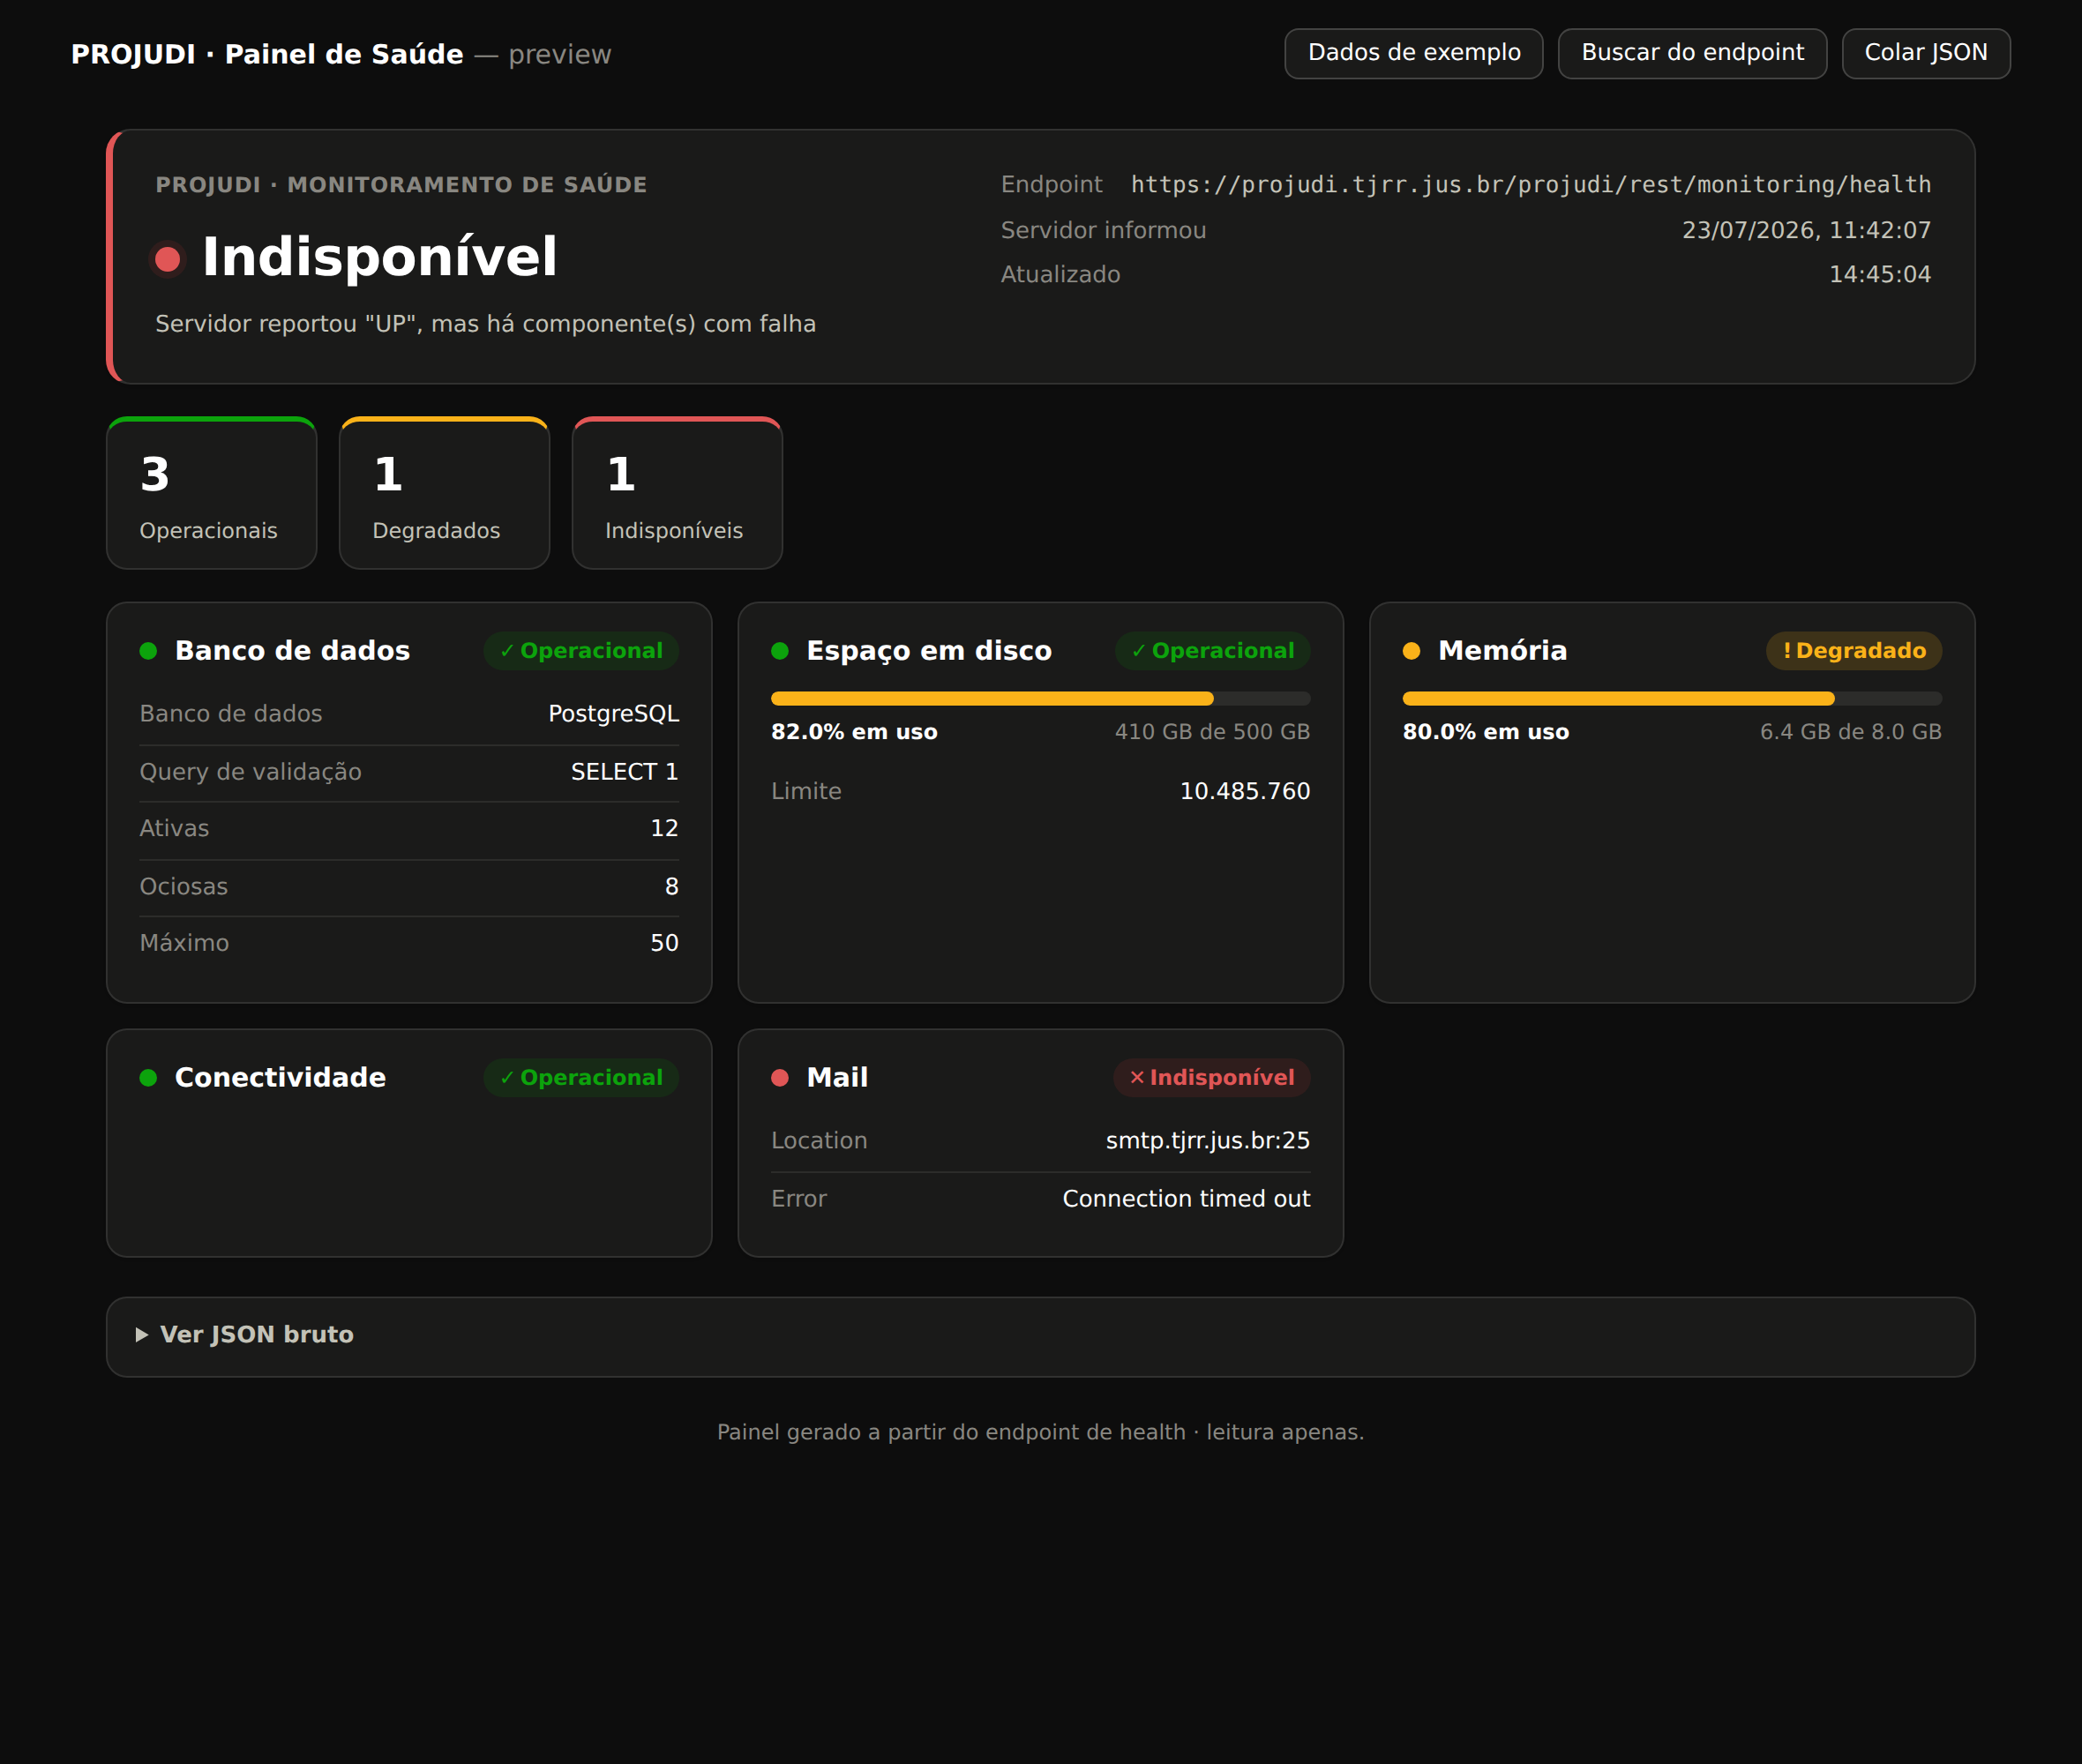
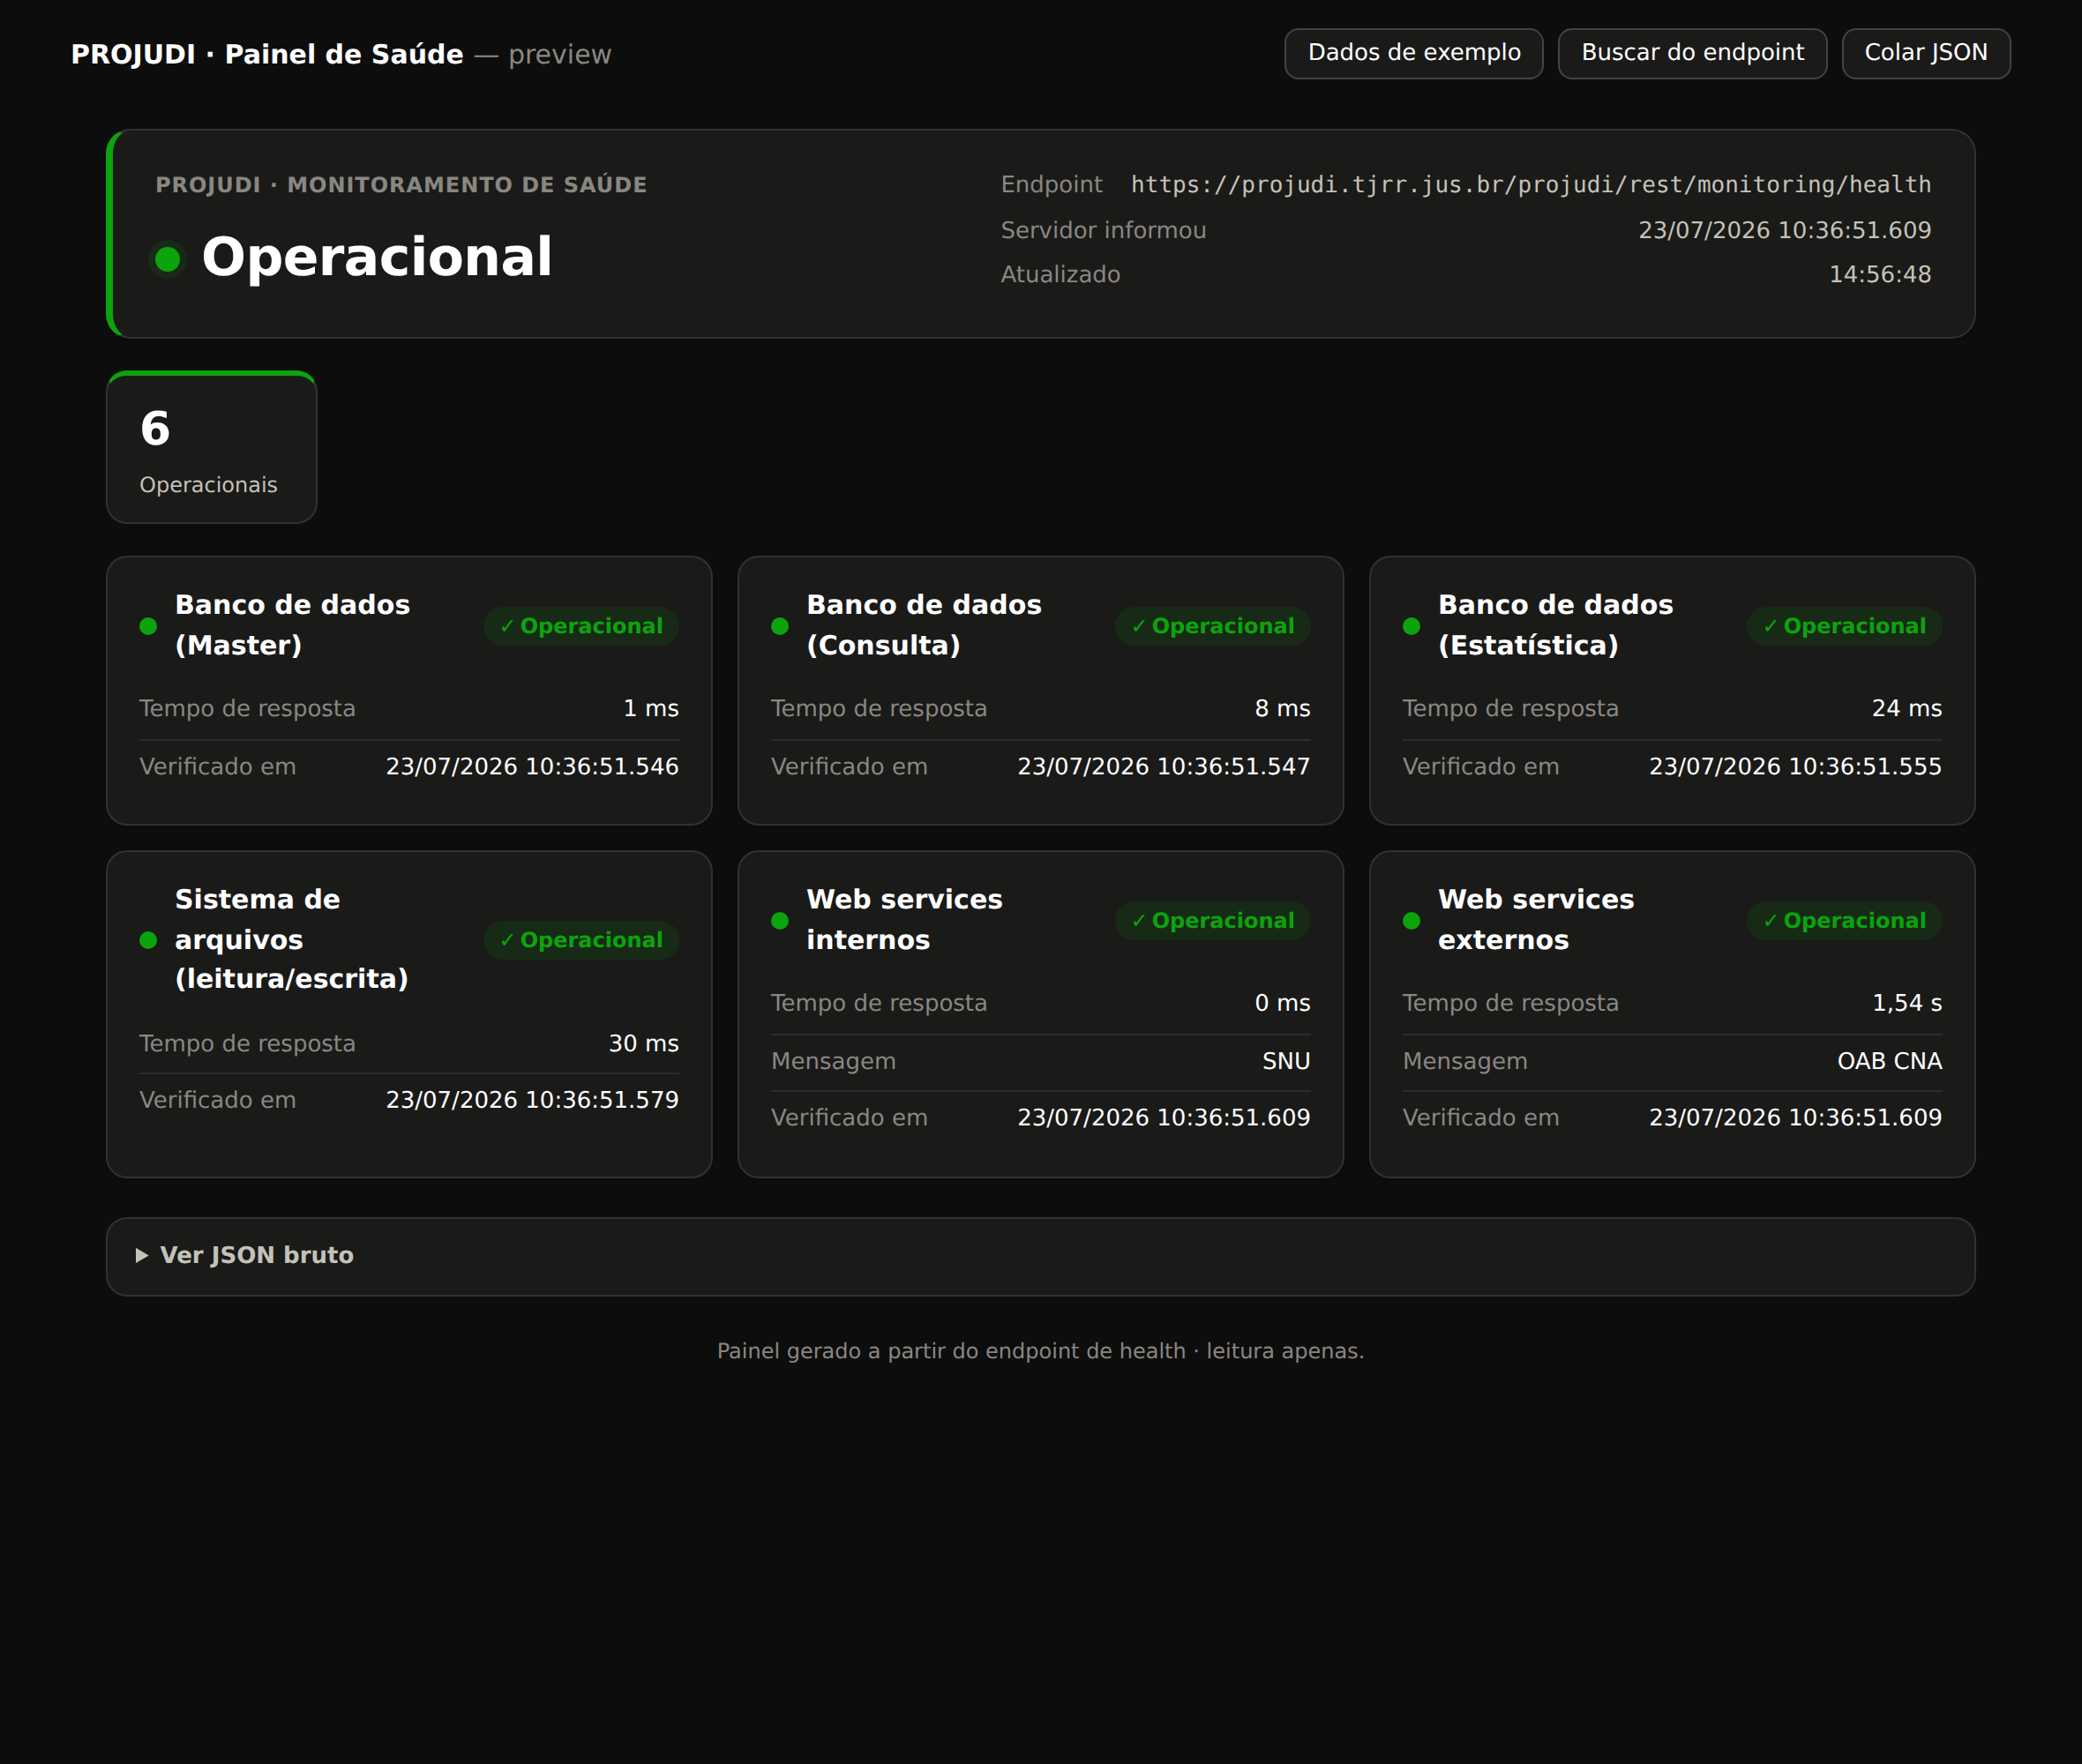
Adapta o painel ao formato real do health do PROJUDI (healthMonitorResult)
O endpoint retorna um array de verificações, não o formato Spring Actuator.
Ajustes:

- extrator reconhece healthMonitorResult (e checks/results/tests) como lista de
  testes, mapeando cada item para um card { status, details }
- rótulos em português para checkMasterDB, checkConsultaDB, checkEstatisticaDB,
  checkFileSystemRW, checkInternalWebServices, checkExternalWebServices
- durationMillis (string) vira número e é exibido como tempo de resposta
  (30 ms, 1,54 s); timestamp vira "verificado em"; mensagem vazia é omitida
- status SUCCESS/FAILURE reconhecidos; carimbo do servidor usa o mais recente
- preview.html e README atualizados com o payload real

Claude-Session: https://claude.ai/code/session_01B1C6fwaHJFTu4FFLnZ1Xcq

diff --git a/projudi-health/health-dashboard.js b/projudi-health/health-dashboard.js
@@ -23,9 +23,9 @@
 
   // Mapeia os muitos rótulos possíveis de status para 4 estados canônicos.
   // Estados: 'good' | 'warning' | 'critical' | 'unknown'
-  const STATUS_BOM = new Set(['up', 'ok', 'healthy', 'alive', 'online', 'running', 'ready', 'pass', 'passing', 'true', 'green', 'success', '200']);
-  const STATUS_ALERTA = new Set(['warn', 'warning', 'degraded', 'out_of_service', 'partial', 'yellow', 'slow', 'maintenance']);
-  const STATUS_CRITICO = new Set(['down', 'error', 'fail', 'failed', 'failing', 'dead', 'offline', 'unhealthy', 'false', 'red', 'critical', 'unavailable', '500', '503']);
+  const STATUS_BOM = new Set(['up', 'ok', 'healthy', 'alive', 'online', 'running', 'ready', 'pass', 'passing', 'true', 'green', 'success', 'sucesso', 'ativo', '200']);
+  const STATUS_ALERTA = new Set(['warn', 'warning', 'degraded', 'out_of_service', 'partial', 'yellow', 'slow', 'lento', 'maintenance', 'manutencao', 'manutenção', 'alerta']);
+  const STATUS_CRITICO = new Set(['down', 'error', 'erro', 'fail', 'failure', 'failed', 'failing', 'falha', 'dead', 'offline', 'unhealthy', 'timeout', 'false', 'red', 'critical', 'unavailable', 'indisponivel', 'indisponível', '500', '503']);
 
   function normalizarStatus(valor) {
     if (valor === true) return 'good';
@@ -84,6 +84,7 @@
   function formatarDuracao(ms) {
     if (typeof ms !== 'number' || !isFinite(ms)) return String(ms);
     if (ms < 1000) return `${Math.round(ms)} ms`;
+    if (ms < 60000) return `${(ms / 1000).toLocaleString('pt-BR', { maximumFractionDigits: 2 })} s`;
     let s = Math.floor(ms / 1000);
     const d = Math.floor(s / 86400); s -= d * 86400;
     const h = Math.floor(s / 3600);  s -= h * 3600;
@@ -136,8 +137,16 @@
       memory: 'Memória', heap: 'Memória (heap)', cpu: 'CPU', redis: 'Redis',
       total: 'Total', free: 'Livre', used: 'Usado', threshold: 'Limite',
       validationquery: 'Query de validação', version: 'Versão', uptime: 'Tempo no ar',
-      timestamp: 'Momento', hostname: 'Servidor', host: 'Servidor', port: 'Porta',
+      timestamp: 'Verificado em', hostname: 'Servidor', host: 'Servidor', port: 'Porta',
       active: 'Ativas', idle: 'Ociosas', max: 'Máximo', responsetime: 'Tempo de resposta',
+      durationmillis: 'Tempo de resposta', message: 'Mensagem', test: 'Teste',
+      // checagens específicas do endpoint de health do PROJUDI
+      checkmasterdb: 'Banco de dados (Master)',
+      checkconsultadb: 'Banco de dados (Consulta)',
+      checkestatisticadb: 'Banco de dados (Estatística)',
+      checkfilesystemrw: 'Sistema de arquivos (leitura/escrita)',
+      checkinternalwebservices: 'Web services internos',
+      checkexternalwebservices: 'Web services externos',
     };
     const k = String(chave).toLowerCase().replace(/[_\s-]/g, '');
     return dic[k] || String(chave).replace(/([a-z])([A-Z])/g, '$1 $2').replace(/[_-]+/g, ' ').replace(/^./, (c) => c.toUpperCase());
@@ -277,13 +286,48 @@
   // Render principal
   // ---------------------------------------------------------------------------
 
+  // Normaliza os vários formatos possíveis de payload em um mapa de componentes
+  // { nome: { status, details } } e sugere um carimbo de data/hora do servidor.
+  function extrairComponentes(dados) {
+    if (!dados || typeof dados !== 'object') return { componentes: null, carimbo: null };
+
+    // Formato do PROJUDI: array de testes (healthMonitorResult) ou similar.
+    const arr = dados.healthMonitorResult || dados.checks || dados.results || dados.tests
+      || (Array.isArray(dados) ? dados : null);
+    if (Array.isArray(arr)) {
+      const componentes = {};
+      let carimbo = null;
+      arr.forEach((item, i) => {
+        if (!item || typeof item !== 'object') return;
+        let nome = item.test || item.name || item.nome || item.id || `Verificação ${i + 1}`;
+        if (componentes[nome]) nome = `${nome} (${i + 1})`;
+        const details = {};
+        for (const [k, v] of Object.entries(item)) {
+          const kl = k.toLowerCase();
+          if (kl === 'status' || kl === 'test' || kl === 'name' || kl === 'nome') continue;
+          if (kl === 'message' && (v == null || String(v).trim() === '')) continue; // mensagem vazia = ruído
+          if (kl === 'durationmillis') { details[k] = Number(v); continue; } // string → número (ms)
+          details[k] = v;
+        }
+        if (item.timestamp && (!carimbo || String(item.timestamp) > String(carimbo))) carimbo = item.timestamp;
+        componentes[nome] = { status: item.status, details };
+      });
+      return { componentes, carimbo };
+    }
+
+    // Formato Spring Actuator ou objeto de componentes.
+    const obj = dados.components || dados.componentes || (dados.checks && !Array.isArray(dados.checks) ? dados.checks : null);
+    return { componentes: obj || null, carimbo: null };
+  }
+
   function render(container, dados, meta) {
     meta = meta || {};
     container.textContent = '';
     container.classList.add('hd-root');
 
     // Descobre componentes e status geral
-    const componentes = (dados && (dados.components || dados.componentes || dados.checks || dados.details)) || null;
+    const extraido = extrairComponentes(dados);
+    const componentes = extraido.componentes;
     const estadoReportado = normalizarStatus(statusBruto(dados));
     // Estado geral = o pior entre o reportado no topo e o pior componente.
     // Um painel de monitoramento não deve exibir "Operacional" se algo caiu.
@@ -326,7 +370,7 @@
       linha.appendChild(el('span', 'hd-hero-meta-v hd-mono', meta.endpoint));
       heroMeta.appendChild(linha);
     }
-    const carimbo = dados && (dados.timestamp || dados.time || dados.datetime || dados.data);
+    const carimbo = (dados && (dados.timestamp || dados.time || dados.datetime || dados.data)) || extraido.carimbo;
     if (carimbo) {
       const linha = el('div', 'hd-hero-meta-row');
       linha.appendChild(el('span', 'hd-hero-meta-k', 'Servidor informou'));

diff --git a/projudi-health/mozilla/health-dashboard.js b/projudi-health/mozilla/health-dashboard.js
@@ -23,9 +23,9 @@
 
   // Mapeia os muitos rótulos possíveis de status para 4 estados canônicos.
   // Estados: 'good' | 'warning' | 'critical' | 'unknown'
-  const STATUS_BOM = new Set(['up', 'ok', 'healthy', 'alive', 'online', 'running', 'ready', 'pass', 'passing', 'true', 'green', 'success', '200']);
-  const STATUS_ALERTA = new Set(['warn', 'warning', 'degraded', 'out_of_service', 'partial', 'yellow', 'slow', 'maintenance']);
-  const STATUS_CRITICO = new Set(['down', 'error', 'fail', 'failed', 'failing', 'dead', 'offline', 'unhealthy', 'false', 'red', 'critical', 'unavailable', '500', '503']);
+  const STATUS_BOM = new Set(['up', 'ok', 'healthy', 'alive', 'online', 'running', 'ready', 'pass', 'passing', 'true', 'green', 'success', 'sucesso', 'ativo', '200']);
+  const STATUS_ALERTA = new Set(['warn', 'warning', 'degraded', 'out_of_service', 'partial', 'yellow', 'slow', 'lento', 'maintenance', 'manutencao', 'manutenção', 'alerta']);
+  const STATUS_CRITICO = new Set(['down', 'error', 'erro', 'fail', 'failure', 'failed', 'failing', 'falha', 'dead', 'offline', 'unhealthy', 'timeout', 'false', 'red', 'critical', 'unavailable', 'indisponivel', 'indisponível', '500', '503']);
 
   function normalizarStatus(valor) {
     if (valor === true) return 'good';
@@ -84,6 +84,7 @@
   function formatarDuracao(ms) {
     if (typeof ms !== 'number' || !isFinite(ms)) return String(ms);
     if (ms < 1000) return `${Math.round(ms)} ms`;
+    if (ms < 60000) return `${(ms / 1000).toLocaleString('pt-BR', { maximumFractionDigits: 2 })} s`;
     let s = Math.floor(ms / 1000);
     const d = Math.floor(s / 86400); s -= d * 86400;
     const h = Math.floor(s / 3600);  s -= h * 3600;
@@ -136,8 +137,16 @@
       memory: 'Memória', heap: 'Memória (heap)', cpu: 'CPU', redis: 'Redis',
       total: 'Total', free: 'Livre', used: 'Usado', threshold: 'Limite',
       validationquery: 'Query de validação', version: 'Versão', uptime: 'Tempo no ar',
-      timestamp: 'Momento', hostname: 'Servidor', host: 'Servidor', port: 'Porta',
+      timestamp: 'Verificado em', hostname: 'Servidor', host: 'Servidor', port: 'Porta',
       active: 'Ativas', idle: 'Ociosas', max: 'Máximo', responsetime: 'Tempo de resposta',
+      durationmillis: 'Tempo de resposta', message: 'Mensagem', test: 'Teste',
+      // checagens específicas do endpoint de health do PROJUDI
+      checkmasterdb: 'Banco de dados (Master)',
+      checkconsultadb: 'Banco de dados (Consulta)',
+      checkestatisticadb: 'Banco de dados (Estatística)',
+      checkfilesystemrw: 'Sistema de arquivos (leitura/escrita)',
+      checkinternalwebservices: 'Web services internos',
+      checkexternalwebservices: 'Web services externos',
     };
     const k = String(chave).toLowerCase().replace(/[_\s-]/g, '');
     return dic[k] || String(chave).replace(/([a-z])([A-Z])/g, '$1 $2').replace(/[_-]+/g, ' ').replace(/^./, (c) => c.toUpperCase());
@@ -277,13 +286,48 @@
   // Render principal
   // ---------------------------------------------------------------------------
 
+  // Normaliza os vários formatos possíveis de payload em um mapa de componentes
+  // { nome: { status, details } } e sugere um carimbo de data/hora do servidor.
+  function extrairComponentes(dados) {
+    if (!dados || typeof dados !== 'object') return { componentes: null, carimbo: null };
+
+    // Formato do PROJUDI: array de testes (healthMonitorResult) ou similar.
+    const arr = dados.healthMonitorResult || dados.checks || dados.results || dados.tests
+      || (Array.isArray(dados) ? dados : null);
+    if (Array.isArray(arr)) {
+      const componentes = {};
+      let carimbo = null;
+      arr.forEach((item, i) => {
+        if (!item || typeof item !== 'object') return;
+        let nome = item.test || item.name || item.nome || item.id || `Verificação ${i + 1}`;
+        if (componentes[nome]) nome = `${nome} (${i + 1})`;
+        const details = {};
+        for (const [k, v] of Object.entries(item)) {
+          const kl = k.toLowerCase();
+          if (kl === 'status' || kl === 'test' || kl === 'name' || kl === 'nome') continue;
+          if (kl === 'message' && (v == null || String(v).trim() === '')) continue; // mensagem vazia = ruído
+          if (kl === 'durationmillis') { details[k] = Number(v); continue; } // string → número (ms)
+          details[k] = v;
+        }
+        if (item.timestamp && (!carimbo || String(item.timestamp) > String(carimbo))) carimbo = item.timestamp;
+        componentes[nome] = { status: item.status, details };
+      });
+      return { componentes, carimbo };
+    }
+
+    // Formato Spring Actuator ou objeto de componentes.
+    const obj = dados.components || dados.componentes || (dados.checks && !Array.isArray(dados.checks) ? dados.checks : null);
+    return { componentes: obj || null, carimbo: null };
+  }
+
   function render(container, dados, meta) {
     meta = meta || {};
     container.textContent = '';
     container.classList.add('hd-root');
 
     // Descobre componentes e status geral
-    const componentes = (dados && (dados.components || dados.componentes || dados.checks || dados.details)) || null;
+    const extraido = extrairComponentes(dados);
+    const componentes = extraido.componentes;
     const estadoReportado = normalizarStatus(statusBruto(dados));
     // Estado geral = o pior entre o reportado no topo e o pior componente.
     // Um painel de monitoramento não deve exibir "Operacional" se algo caiu.
@@ -326,7 +370,7 @@
       linha.appendChild(el('span', 'hd-hero-meta-v hd-mono', meta.endpoint));
       heroMeta.appendChild(linha);
     }
-    const carimbo = dados && (dados.timestamp || dados.time || dados.datetime || dados.data);
+    const carimbo = (dados && (dados.timestamp || dados.time || dados.datetime || dados.data)) || extraido.carimbo;
     if (carimbo) {
       const linha = el('div', 'hd-hero-meta-row');
       linha.appendChild(el('span', 'hd-hero-meta-k', 'Servidor informou'));

diff --git a/projudi-health/preview.html b/projudi-health/preview.html
@@ -45,17 +45,16 @@
     const ENDPOINT = 'https://projudi.tjrr.jus.br/projudi/rest/monitoring/health';
     const alvo = document.getElementById('dashboard');
 
-    // Exemplo realista no formato Spring Actuator (ajuste-se ao real quando disponível).
+    // Formato real do endpoint de health do PROJUDI (array de verificações).
     const EXEMPLO = {
-      status: 'UP',
-      timestamp: '2026-07-23T11:42:07',
-      components: {
-        db: { status: 'UP', details: { database: 'PostgreSQL', validationQuery: 'SELECT 1', active: 12, idle: 8, max: 50 } },
-        diskSpace: { status: 'UP', details: { total: 536870912000, free: 96636764160, threshold: 10485760 } },
-        memory: { status: 'WARNING', details: { used: 6871947673, max: 8589934592 } },
-        ping: { status: 'UP' },
-        mail: { status: 'DOWN', details: { location: 'smtp.tjrr.jus.br:25', error: 'Connection timed out' } }
-      }
+      healthMonitorResult: [
+        { durationMillis: '1', message: '', status: 'SUCCESS', test: 'checkMasterDB', timestamp: '23/07/2026 10:36:51.546' },
+        { durationMillis: '8', message: '', status: 'SUCCESS', test: 'checkConsultaDB', timestamp: '23/07/2026 10:36:51.547' },
+        { durationMillis: '24', message: '', status: 'SUCCESS', test: 'checkEstatisticaDB', timestamp: '23/07/2026 10:36:51.555' },
+        { durationMillis: '30', message: '', status: 'SUCCESS', test: 'checkFileSystemRW', timestamp: '23/07/2026 10:36:51.579' },
+        { durationMillis: '0', message: 'SNU', status: 'SUCCESS', test: 'checkInternalWebServices', timestamp: '23/07/2026 10:36:51.609' },
+        { durationMillis: '1544', message: 'OAB CNA', status: 'SUCCESS', test: 'checkExternalWebServices', timestamp: '23/07/2026 10:36:51.609' }
+      ]
     };
 
     function render(dados, endpoint) {

diff --git a/README.md b/README.md
@@ -99,11 +99,19 @@ https://projudi.tjrr.jus.br/projudi/rest/monitoring/health
   ícone **e** rótulo (a cor nunca carrega o significado sozinha). O cabeçalho reflete o
   **pior** componente — não exibe "Operacional" se algum item caiu.
 - **Resumo** com a contagem de componentes por estado.
-- **Cards por componente** (banco de dados, disco, memória, conectividade, e-mail, etc.),
-  com badge de status e os detalhes formatados de forma amigável:
-  - bytes viram `GB`/`MB`, durações viram `2h 15min`, datas ficam no formato brasileiro,
-    booleanos viram `Sim`/`Não`;
-  - pares *total/livre* ou *total/usado* viram uma **barra de utilização** com o percentual.
+- **Cards por verificação**, com badge de status e detalhes formatados de forma amigável.
+  O endpoint do PROJUDI retorna um array `healthMonitorResult` de checagens; cada uma
+  vira um card com rótulo em português:
+  - `checkMasterDB` → Banco de dados (Master)
+  - `checkConsultaDB` → Banco de dados (Consulta)
+  - `checkEstatisticaDB` → Banco de dados (Estatística)
+  - `checkFileSystemRW` → Sistema de arquivos (leitura/escrita)
+  - `checkInternalWebServices` → Web services internos
+  - `checkExternalWebServices` → Web services externos
+- **Formatação amigável** dos campos: `durationMillis` vira *tempo de resposta*
+  (`30 ms`, `1,54 s`), o `timestamp` aparece como *verificado em*, e a `message` só é
+  exibida quando tem conteúdo (ex.: `SNU`, `OAB CNA`). Para outros formatos, bytes viram
+  `GB`/`MB`, booleanos viram `Sim`/`Não` e pares *total/livre* viram barra de utilização.
 - **Ver JSON bruto** — bloco colapsável com o payload original, para quando precisar do dado exato.
 - **Atualização automática** (10s / 30s / 60s / 120s) com botão para atualizar na hora.
 